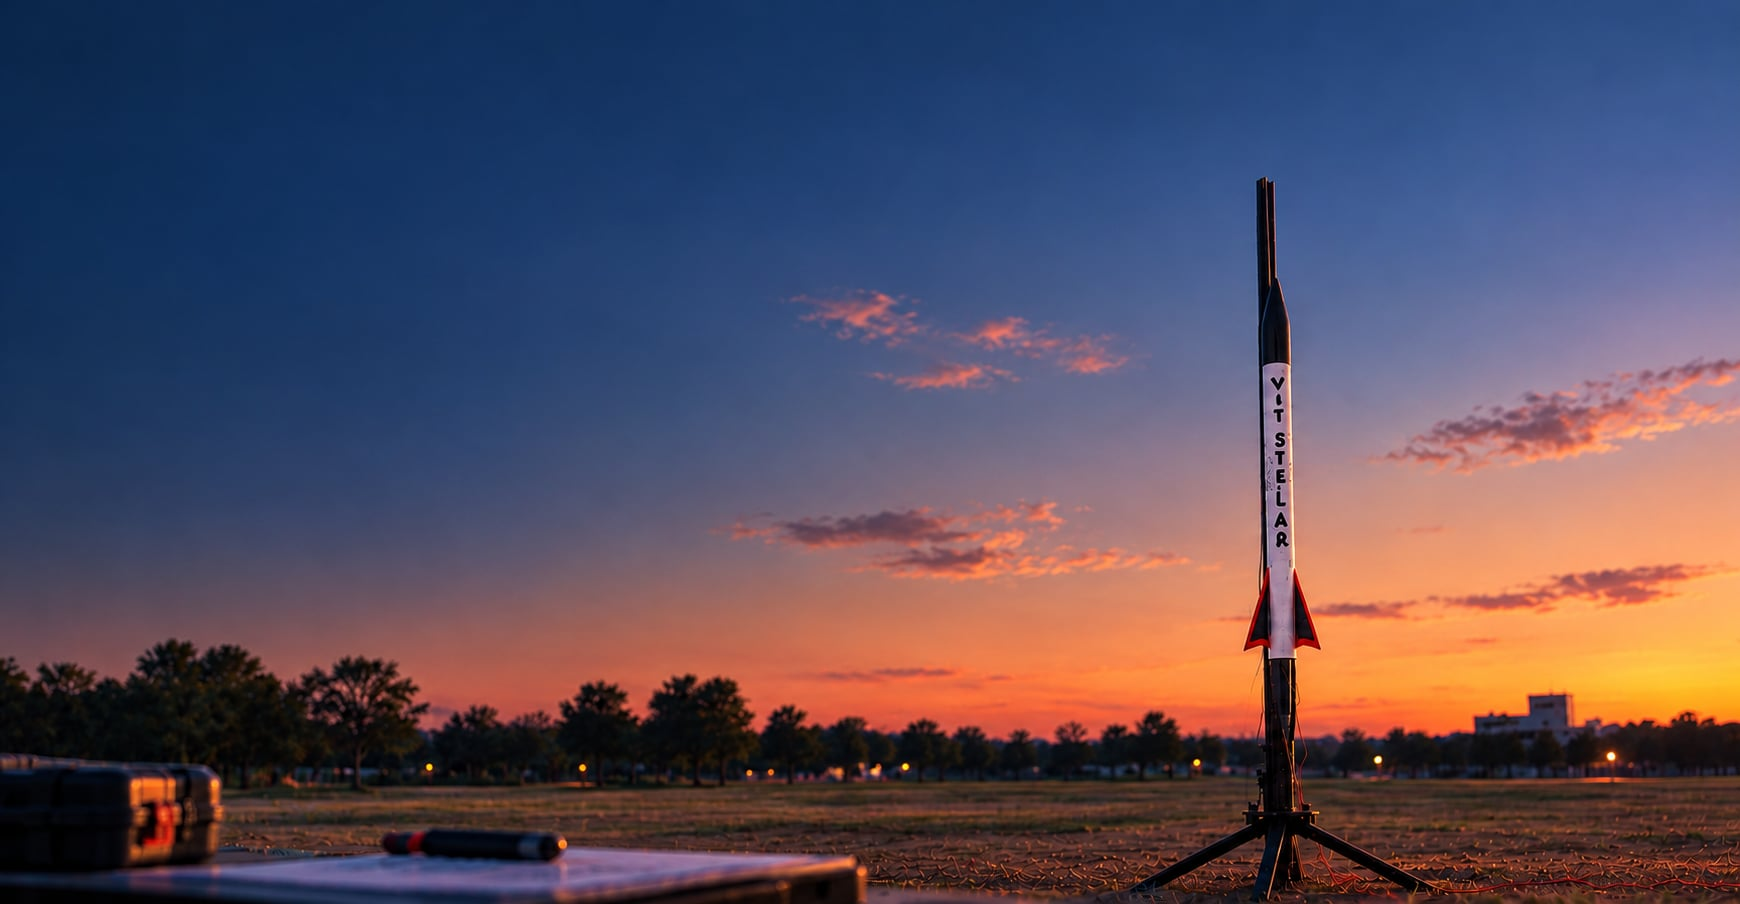
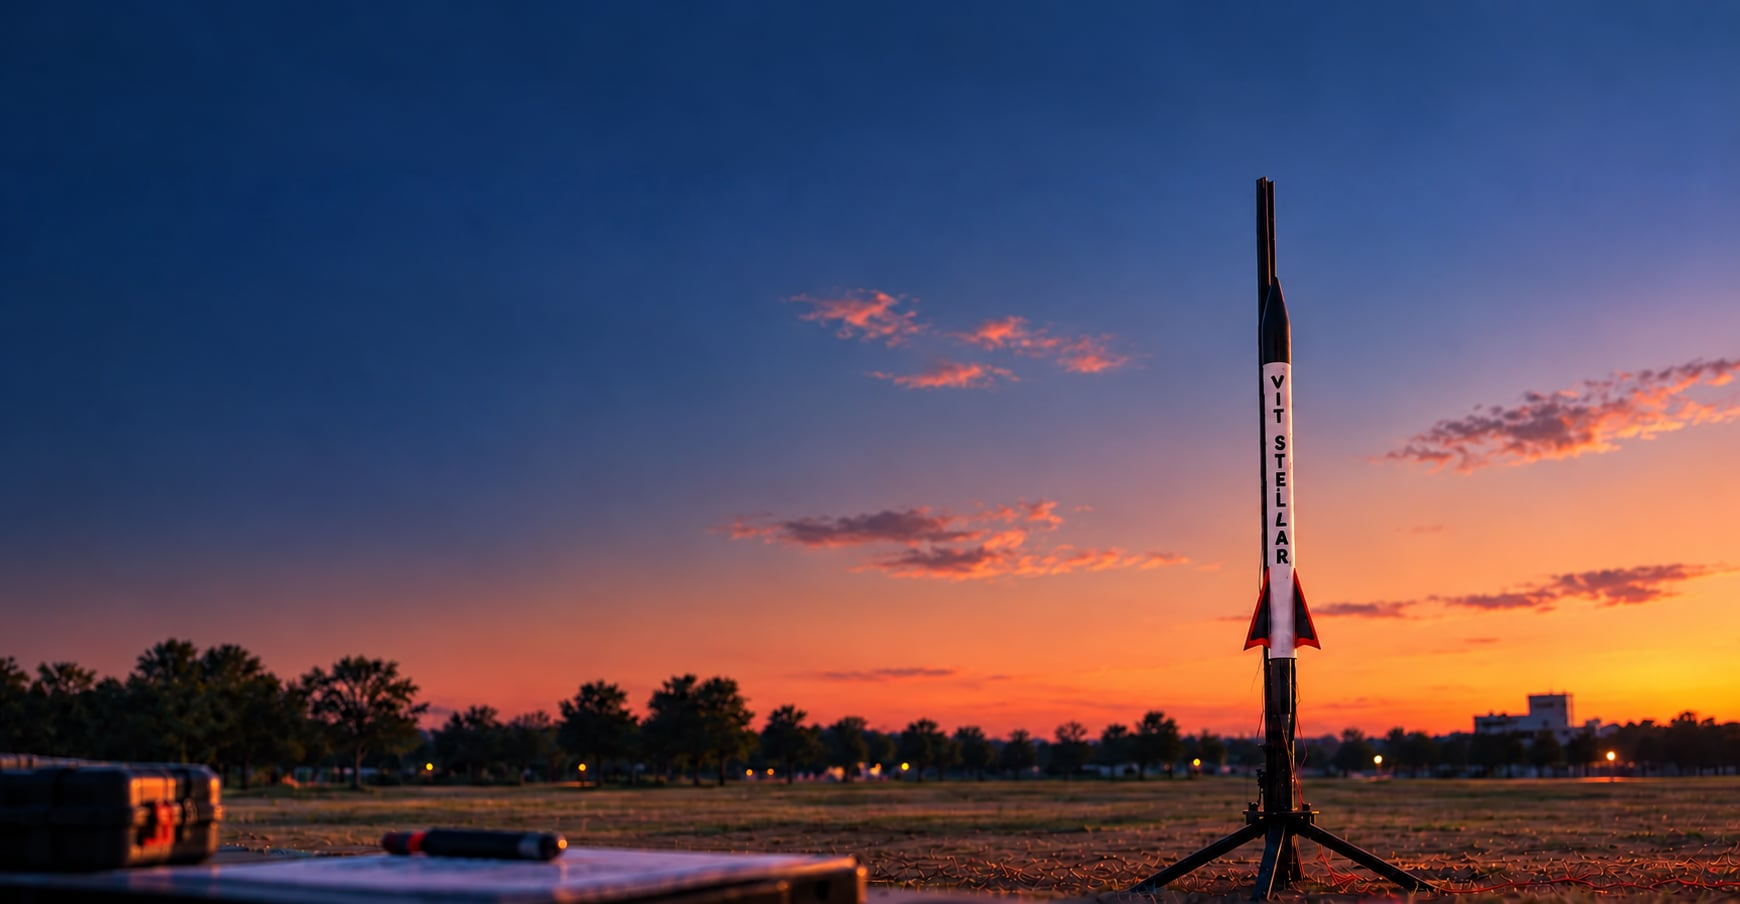
Correct rocket lettering to VIT STELLAR

diff --git a/docs/HERO_ASSET.md b/docs/HERO_ASSET.md
@@ -18,3 +18,12 @@ Use case: precise-object-edit. Asset type: clean photographic background for the
 ## Validation
 
 Seven integration tests passed. TypeScript and Vite production build passed. Desktop and 390 × 844 phone layouts checked: no horizontal overflow, readable headline, mobile menu Escape handling, POCs navigation and direct refresh. Browser console showed no errors or warnings.
+
+
+## Rocket lettering correction — 16 October 2026
+
+Built-in ImageGen was used to correct the vertical rocket label to **VIT STELLAR**, including both L letters. The selected output is `exec-8844812e-2fb4-484e-b8fe-00728740fdaf.png`. The existing WebP and JPEG website assets were replaced with quality-85 encodings; the composition and dimensions remain 1740 × 904.
+
+Exact edit prompt:
+
+Use case: text-localization. Input image 1 is the exact edit target, the existing Aerovate website hero background. Correct ONLY the black lettering physically printed vertically on the white rocket body. The exact text must be "VIT STELLAR", spelled V I T, a small gap, S T E L L A R — make sure STELLAR has TWO consecutive L letters. Stack the upright letters top-to-bottom as V, I, T, gap, S, T, E, L, L, A, R. Fit the full text neatly on the same white panel, with realistic black painted lettering following the existing body perspective. Preserve the rocket shape, white/black/red paint, launch rail and tripod, sunset sky, clouds, trees, buildings, field, foreground notebook and tools, composition, lighting, image framing and aspect ratio exactly. Do not add UI or any other text. Change only the misspelled rocket label to the correctly spelled VIT STELLAR. Opaque photographic output.
